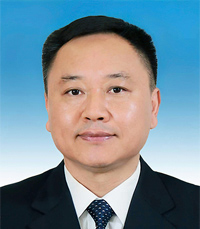
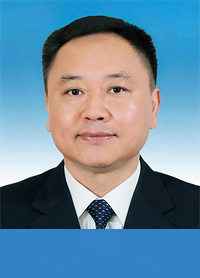
领导图片修改英文网

diff --git a/网站/水利部英文网站/css/en-202310-global.css b/网站/水利部英文网站/css/en-202310-global.css
@@ -689,13 +689,17 @@ footer.footerbg {
 }
 .ld-img {
   width: 200px;
+  position: relative;
 }
 .ld-img img {
   display: block;
 }
 .ld-img p {
-  padding: 12px 0;
-  background-color: #3382c5;
+  position: absolute;
+  left: 0;
+  right: 0;
+  bottom: 0;
+  padding: 10px 0;
   text-align: center;
   color: #ffffff;
   font-size: 24px;
